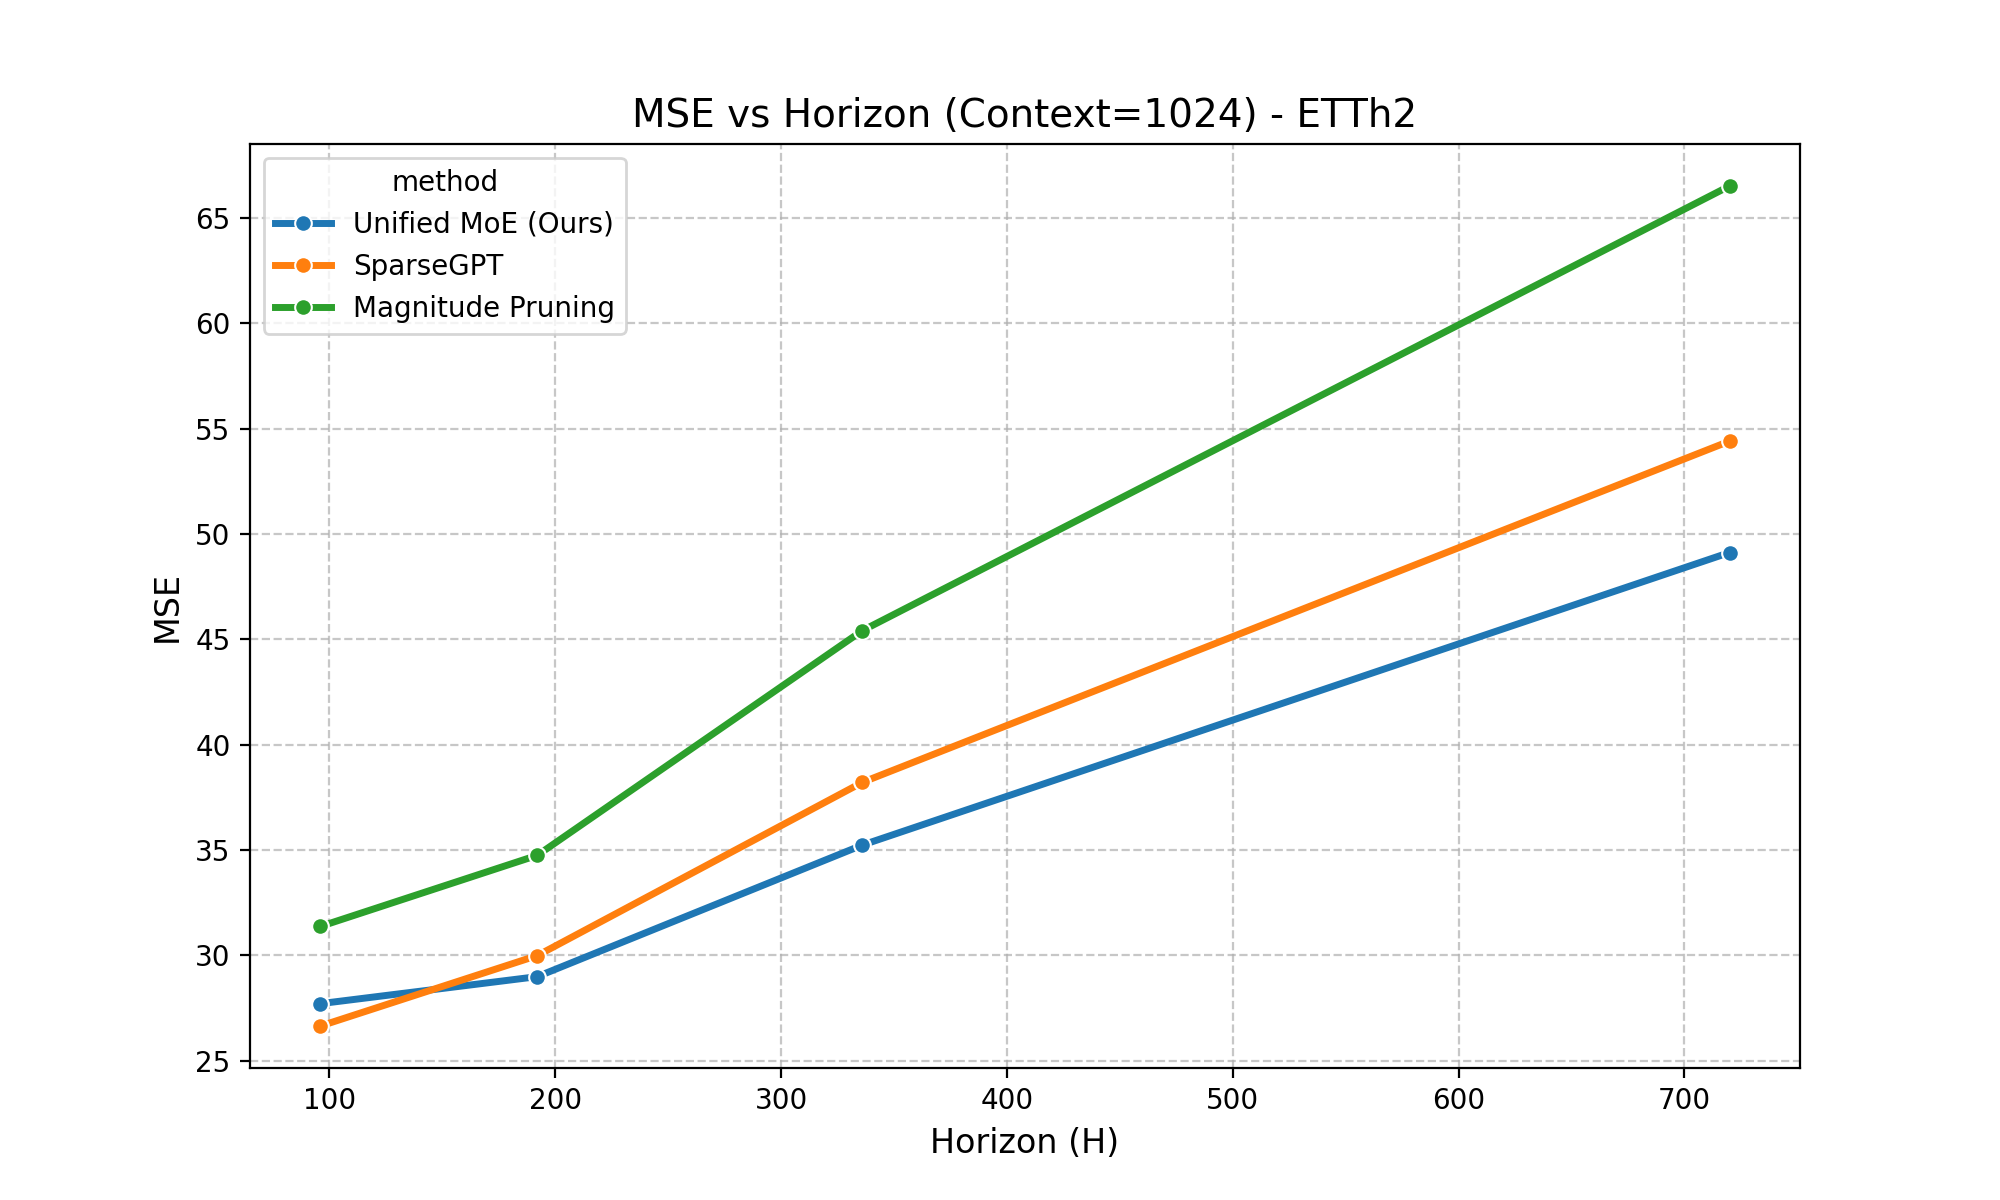
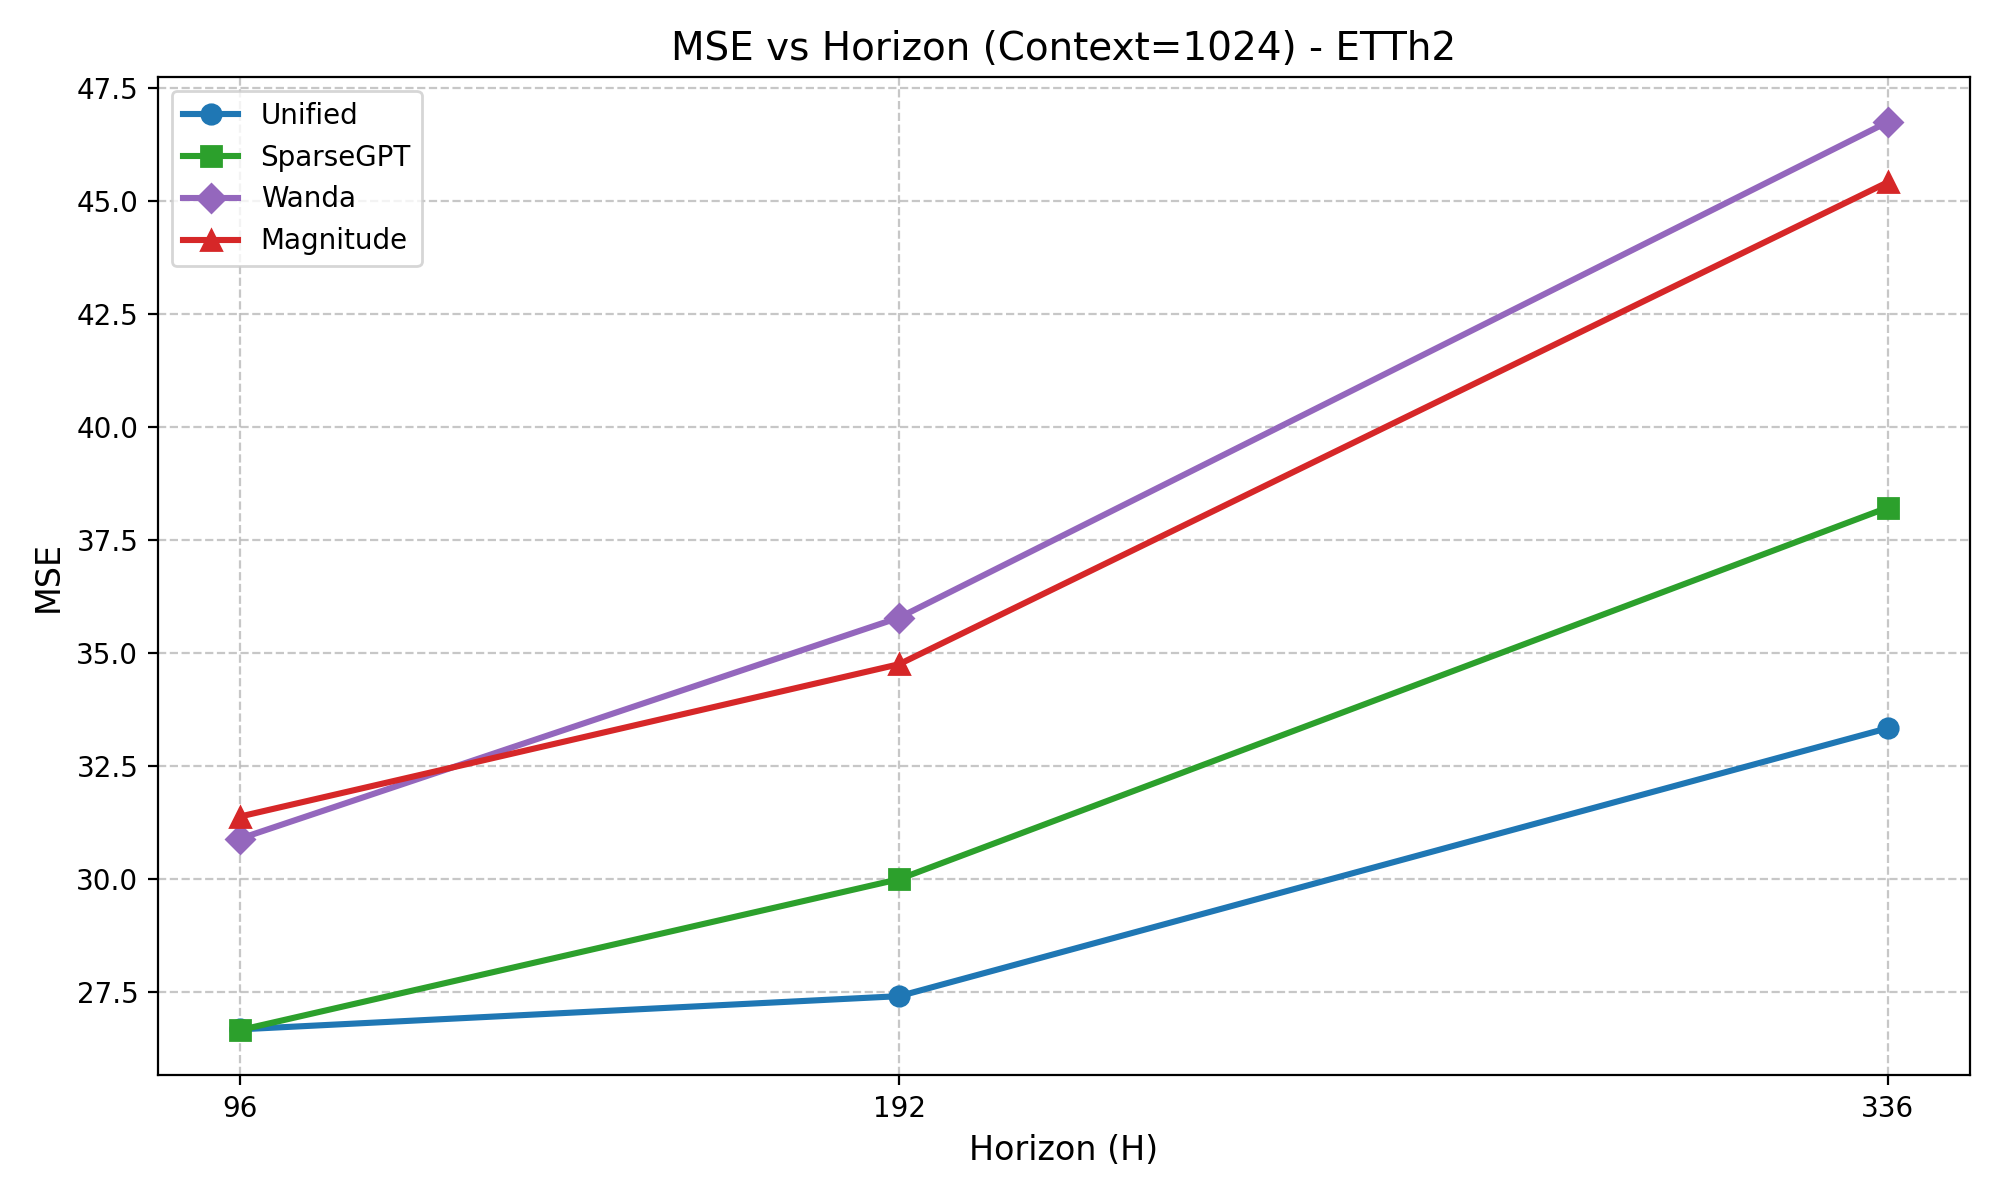
Refresh plots and README for MoE interaction results

diff --git a/README.md b/README.md
@@ -1,17 +1,18 @@
 # Unified v2 Pruning for Zero-Shot Time-Series (TimesFM)
 
-This repository contains the implementation and experimental verification of **Unified v13 Pruning**, a state-of-the-art methodology for 2:4 sparsity in zero-shot foundation models (TimesFM).
+This repository contains the implementation and experimental evaluation of a **pruning-time Competitive MoE** for 2:4 sparsity in TimesFM, with layer-wise expert selection across `Magnitude`, `Wanda`, `OBS`, and `SNR`-style pruning/reconstruction strategies.
 
 ## 🚀 Key Features
 
-- **Unified v13 Logic**: A robust Competitive MoE strategy that selects the optimal reconstructor (Wanda, OBS, Magnitude, or SNR-weighted) per layer based on local validation reconstructions.
-- **Foundational Generalization**: Specifically optimized for long-horizon and seasonal datasets where standard pruning methods (SparseGPT, Wanda) often fail.
-- **Comprehensive Benchmarks**: Tools to execute a full 144-configuration Grid (Unified vs Wanda vs SparseGPT vs Magnitude) across all ETT datasets.
-- **Automated Reporting**: Visual and document-based result synthesis.
+- **Pruning-Time MoE Routing**: Selects the pruning expert **per layer** (and `mask/refit` variant) instead of using one global pruning method.
+- **Distribution-Aware Gating**: Uses activation / Gram statistics (e.g., NSR, conditioning, kurtosis) to bias routing and apply safe fallbacks.
+- **Forecast-Aware Post-Pass**: Greedy multi-layer refinement on held-out windows to reduce forecast MSE after local pruning decisions.
+- **Interaction Diagnostics**: Pairwise move diagnostics and pair-aware greedy hooks for analyzing non-additive layer interactions.
+- **Benchmark + Plotting Tooling**: Full 144-config sweep support and updated plotting scripts/artifacts.
 
 ## 📈 Experimental Evidence
 
-Unified v13 consistently outperforms traditional baselines across diverse benchmarks. Below are the comparative results showing MSE vs. Horizon and Context.
+The figures below are updated from the `branch-moe-interactions` results and use the merged benchmark in `results/sweep_postpass_best_available.csv` (full all-dataset post-pass sweep plus targeted stronger ETTm2 reruns where available).
 
 ### Performance Gallery
 | Dataset | MSE vs Horizon (Context=1024) | MSE vs Context (Horizon=96) |
@@ -21,20 +22,23 @@ Unified v13 consistently outperforms traditional baselines across diverse benchm
 | **ETTh1** | ![ETTh1 Horizon](results/plots/plot_ETTh1_horizon.png) | ![ETTh1 Context](results/plots/plot_ETTh1_context.png) |
 | **ETTh2** | ![ETTh2 Horizon](results/plots/plot_ETTh2_horizon.png) | ![ETTh2 Context](results/plots/plot_ETTh2_context.png) |
 
-## 📊 Performance Statistics
-- **83% Win Rate** against Wanda.
-- **58% Win Rate** against SparseGPT.
-- **23% MSE Improvement** on ETTm1 (H=336, C=2048) by preventing refit-driven hallucinations.
+## 📊 Performance Statistics (Best-Available Unified)
+- **29 / 36 wins (80.6%)** vs **SparseGPT**
+- **35 / 36 wins (97.2%)** vs **Wanda**
+- **33 / 36 wins (91.7%)** vs **Magnitude**
+- **25 / 36 best-overall** configurations across `{Unified, SparseGPT, Wanda, Magnitude}`
+- Mean MSE across all 36 configs: **Unified = 16.837** vs **SparseGPT = 17.796**
 
 ## 🛠 Repository Structure
 
 - `scripts/`:
-  - `prune_unified.py`: Main pruning implementation using Unified v13 logic.
+  - `prune_unified.py`: Main pruning implementation (Competitive MoE + safety/post-pass logic).
   - `baselines.py`: Runner for Wanda, SparseGPT, and Magnitude baselines.
   - `run_sweep.py`: Orchestrator for full grid experimental sweeps.
-  - `plot_results.py`: Visualization engine for MSE vs Horizon/Context.
+  - `plot_results.py`: Legacy visualization script for sweep plots.
+  - `generate_updated_graphs.py`: Merges updated results and regenerates repo-style plots.
   - `generate_report.py`: Word document generator for technical specifications.
-- `results/`: Contains `restored_v13_sweep.csv` and generated performance plots.
+- `results/`: Sweep CSVs, merged comparison CSVs, and generated performance plots.
 - `research/`: Legacy logs, draft implementations, and diagnostic tools.
 
 ## 🏁 Getting Started
@@ -52,32 +56,45 @@ pip install -r requirements.txt
 ```
 
 ### 2. Running a Pruning Experiment
-To prune a TimesFM model using the Unified v13 method:
+To prune a TimesFM model with the Unified MoE pruning logic:
 
 ```bash
-python scripts/prune_unified.py \
-    --dataset ETTm1 \
-    --horizon 96 \
-    --context 1024 \
-    --sparsity 2:4
+micromamba run -n timesfm311 python scripts/prune_unified.py \
+  --csv ETDataset/ETT-small/ETTm2.csv --col OT --train_end 49152 \
+  --horizon 192 --context 1024 \
+  --score_mode unified --refit 1 --ridge 1e-5 \
+  --max_calls_per_layer 64 --calib_select last --nf_hi 0.0 --error_power 0 \
+  --safe_policy rule_v1 \
+  --greedy_postpass_k 16 --greedy_postpass_steps 6 \
+  --greedy_postpass_eval_windows 32 --greedy_postpass_screen_k 12 \
+  --greedy_postpass_screen_min_gain 0.03 --greedy_postpass_min_step_gain 0.02 \
+  --stride_test 192
 ```
 
 ### 3. Executing the Full Grid Sweep
-To replicate the full experimental evidence reported in the technical brief:
+To run the baseline 144-config sweep:
 
 ```bash
-python scripts/run_sweep.py --baseline Unified
+python3 scripts/run_sweep.py
 ```
 
-### 4. Generating Reports
-To generate the final technical MS Word report:
+To run a `Unified`-only sweep with custom post-pass flags (used for the updated branch results):
 
 ```bash
-python scripts/generate_report.py
+SWEEP_METHODS=unified \
+SWEEP_LOG_FILE=results/unified_postpass_all_fast.csv \
+SWEEP_UNIFIED_EXTRA_FLAGS=" --max_calls_per_layer 64 --calib_select last --nf_hi 0.0 --error_power 0 --safe_policy rule_v1 --greedy_postpass_k 16 --greedy_postpass_steps 6 --greedy_postpass_eval_windows 32 --greedy_postpass_screen_k 12 --greedy_postpass_screen_min_gain 0.03 --greedy_postpass_min_step_gain 0.02 --greedy_postpass_max_cands_per_layer 8" \
+python3 scripts/run_sweep.py
+```
+
+### 4. Regenerating Updated Graphs
+
+```bash
+micromamba run -n timesfm311 python scripts/generate_updated_graphs.py
 ```
 
 ## 📜 Methodology
-Unified v13 utilizes an **Error-Weighted Gram Matrix** and a **Spectral Noise Guard**. It adaptively switches to an SNR-weighted expert in high-noise seasonal regimes (E.g., ETTm1) while maintaining the precision of Optimal Brain Surgeon (OBS) on clean signal datasets (E.g., ETTh2).
+This branch implements a **pruning-time MoE controller** over multiple pruning experts (`Magnitude`, `Wanda`, `OBS`, `SNR`). The controller first selects a layer-local expert/variant using activation and Gram statistics, then applies a **forecast-aware greedy post-pass** to correct high-regret layer decisions on held-out windows. Diagnostic tooling is included for layerwise error attribution and pairwise interaction analysis.
 
 ---
-*For detailed experimental results, refer to `results/restored_v13_sweep.csv`.*
+*Key result files:* `results/sweep_postpass_best_available.csv`, `results/merged_unified_postpass_fast_vs_baselines.csv`, `results/ettm2_best_available_vs_baselines.csv`.
